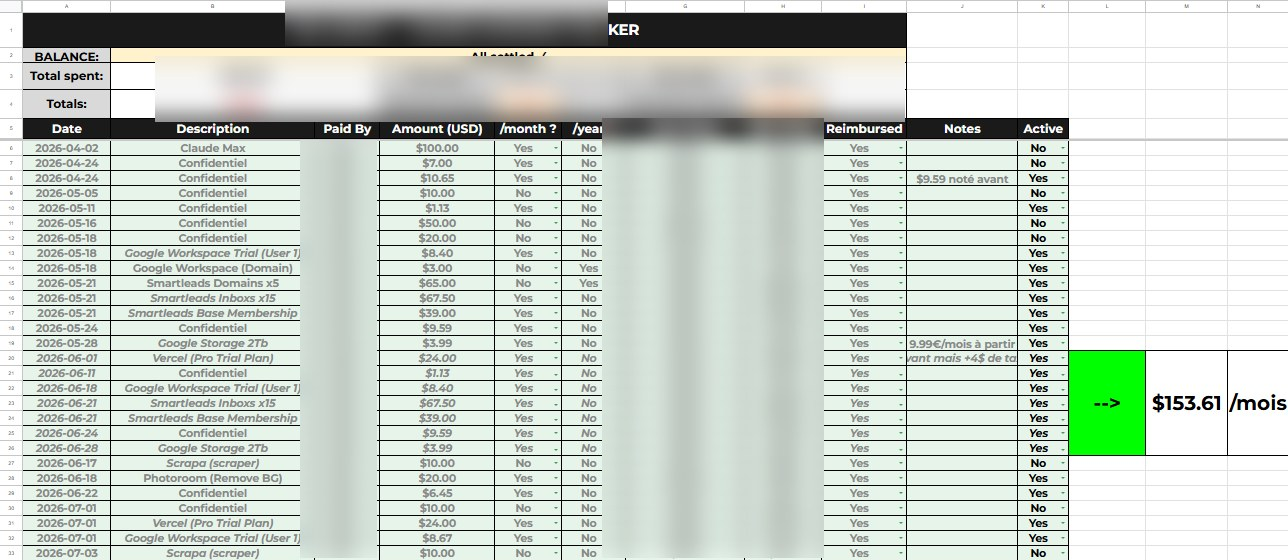
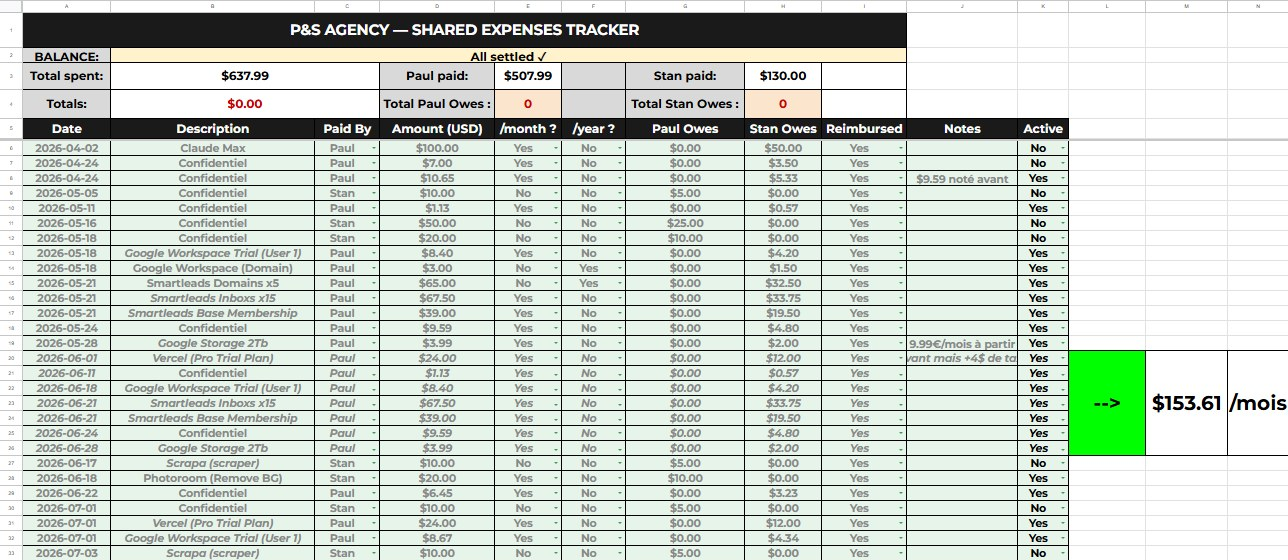
docs: use un-blurred COMPTABILITE (self-redacted) + update caption

Changed region(s): [[0.0932, 0.0, 0.7143, 1.0]]

diff --git a/README.md b/README.md
@@ -141,7 +141,7 @@ Scored leads with full business data (lead emails + phones redacted), alongside 
 
 ![COSTS / LEADS](docs/screenshots/sheet/costs-leads.jpg)
 
-**COMPTABILITE** — the running cost ledger, ~$150/mo at steady state (founder names + personal split redacted):
+**COMPTABILITE** — the shared expense ledger: every tool and its cost, ~$153/mo at steady state:
 
 ![COMPTABILITE](docs/screenshots/sheet/comptabilite.jpg)
 
